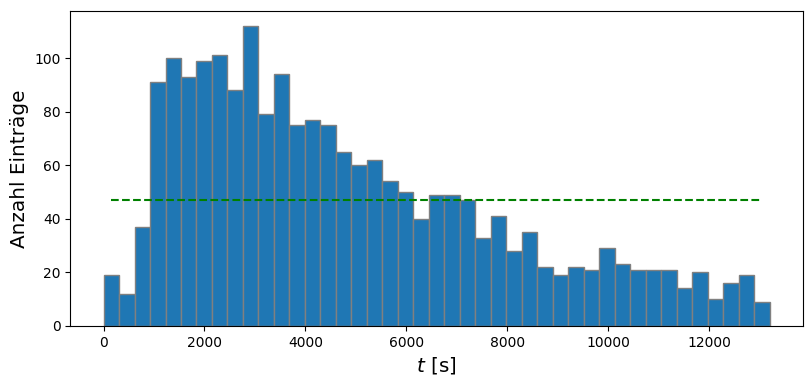
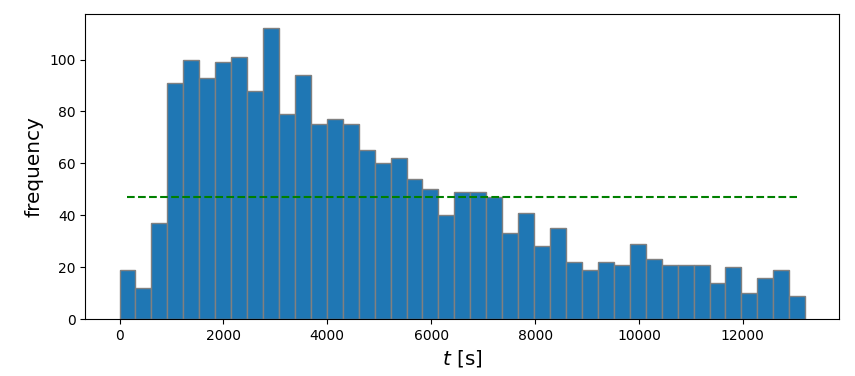
improved section on Radon

diff --git a/experiments/data/GammaAnalysis.py b/experiments/data/GammaAnalysis.py
@@ -125,7 +125,7 @@ ax_ph.set_yscale("log")
 # 2. rates (= frequency / time interval)
 tmn = 0.0
 tmx = NTbins * Tinterval
-bcR, beR, _ = ax_rate.hist(T, bins=np.linspace(tmn, tmx, NTbins))
+bcR, beR, _ = ax_rate.hist(T, bins=np.linspace(tmn, tmx, NTbins), ec='grey')
 ax_rate.set_ylabel("frequency", size="x-large")
 ax_rate.set_xlabel("$t$ [s]", size="x-large")
 # Mittelpunkt und Breite der Bins
@@ -159,7 +159,7 @@ mx = 5 * meanTw
 nb = 75  # minimum, maximum and number of bins
 bcW, beW, _ = ax_tw.hist(dT, bins=np.linspace(mn, mx, nb), log=True, rwidth=0.8)  # log. Darstellung
 ax_tw.set_ylabel("frequency", size="x-large")
-ax_tw.set_xlabel("$\Delta$t [s]", size="x-large")
+ax_tw.set_xlabel(r"$\Delta$t [s]", size="x-large")
 # Mittelpunkt und Breite der Bins
 bc = (beW[:-1] + beW[1:]) / 2.0
 bw = beW[1] - beW[0]

diff --git a/experiments/DIY-ParticleDetector.md b/experiments/DIY-ParticleDetector.md
@@ -1,10 +1,11 @@
-## *PhyPiDAQ*: Recording data from a do-it-yourself particle detector
+# *PhyPiDAQ*:
+## Recording and analyzing data from a do-it-yourself particle detector
 
-The detection of radioactivity, either produced by artificial sources or as part of the natural environment
-like K-40 or Radon from the inner of the Earth, is a fascinating field of study which today has become
-accessible with cheap and simple detectors. There are commercial offers, but also a number of proposals
-for do-it-yourself projects. A sound-card of a standard PC is suitable to record the signals, which can then
-be visualized with any kind of sound-card oscilloscope. 
+>  The detection of radioactivity, either produced by artificial sources or as part of the natural environment
+   like K-40 or Radon from the inner of the Earth, is a fascinating field of study which today has become
+   accessible with cheap and simple detectors. There are commercial offers, but also a number of proposals
+   for do-it-yourself projects. A sound-card of a standard PC is suitable to record the signals, which can then
+   be visualized with any kind of sound-card oscilloscope. 
 
 ### The CERN DIY particle detector 
 
@@ -26,39 +27,42 @@ gamma radiation is registered.
 
 ### Signal recording and analysis with *PhyPiDAQ*
 
-*PhyPiDAQ* contains several modules supporting data recording, visualization and analysis. An interesting
-and important aspect to study in this context is the randomness of the occurrence of signals. As the probability
-to detect a signal is invariant with time, the number of events observed in a time interval is given by
-Poisson statistics. Typical for such a process is the fact that the time between randomly occurring events 
-follows an exponential distribution.
+*PhyPiDAQ* contains several modules supporting data recording, visualization and analysis.
+An interesting and important aspect to study in this context is the randomness of the occurrence
+of signals. As the probability to detect a signal is invariant with time, the number of events
+observed in a time interval is given by Poisson statistics. Typical for such a process is the
+fact that the time between randomly occurring events follows an exponential distribution.
 
-In addition, the exponentially falling decay rate of a sample of radioactive nuclei is another important aspect 
-that can be studied if a sample of short-lived nuclei can be provided. In Nature, such a source is Radon produced 
-from radioactive decays in the inner of the earth; decay products of Radon, which are themselves radioactive, 
-can be  accumulated on an the surface of an electrically charged balloon. 
+In addition, the exponentially falling decay rate of a sample of radioactive nuclei is another
+important aspect that can be studied if a sample of short-lived nuclei can be provided. In Nature,
+such a source is Radon produced  from radioactive decays in the inner of the earth; decay products
+of Radon, which are themselves radioactive, can be accumulated on an the surface of an electrotatically
+charged balloon. 
 
 Relevant modules of the *PhyPiDAQ* package are:
 
-   - `phypidaq\soundcardOsci` with two classes to record and select  and to display waveforms from a PC soundcard
+   - `phypidaq\soundcardOsci` with two classes to record and select and to display waveforms
+     from a PC soundcard
 
-   - `phypidaq/DisplayPoissonEvent`, a class to display a pulse corresponding to a single Poisson event and to show 
-   a rate history. 
+   - `phypidaq/DisplayPoissonEvent`, a class to display a pulse corresponding to a single Poisson
+   event and to show a rate history. 
 
 Ready-to use scripts  illustrate how to use these classes: 
 
    - `examples/oscilloscope/soundcardOsci.py` to record and display wave forms from a sound card.  
 
-  - `examples/scGammaDetector.py` to visualize every occurrence of a large signal and also the  associated
-    wave form data around the trigger point. A rate history is also shown. The script also offers the 
-   possibility to store the event times in a file for off-line analysis, or to only visualize a sub-set of triggering
-   pulses if the rate is very high. 
-   
- Studies of Poisson processes are possible by using the Python scripts
+   - `examples/scGammaDetector.py` to visualize occurrences of a large signal and also the
+      associated waveform data around the trigger point. A rate history is also shown.
+      The code offers the possibility to store the event times and waveform features in a
+      file for off-line analysis.
+      
+ Studies of Poisson processes are possible by using the *Python* scripts
  
-  -  `examples/poissonFlash.py` to generate, visualize and store data of a simulated Poisson process, and  
+  -  `examples/poissonFlash.py` to generate, visualize and store data of a simulated Poisson process,
+      and  
 
-  - `examples/poissonLED.py` to produce random flashes of a LED. A photodiode exposed to the light of
-     the LED will produce signals analogous to  a detector for gamma rays.
+  - `examples/poissonLED.py` to produce random flashes of a LED. A photodiode exposed to the
+    light of the LED will produce signals analogous to a detector for gamma rays.
 
 
 ### Notes on the installation
@@ -89,9 +93,10 @@ Windows 10 or 11, if *Python* is installed there.
 
 #### Simplified installation
 
-The Python programs *scGammaDector.py* and *run_scOsci.py* can also be executed without downloading the complete *PhyPiDAQ* package. If a current Python version
-is available, the libraries can also be downloaded can also be installed directly
-from the *github* repository:
+The Python programs *scGammaDector.py* and *run_scOsci.py* can also be executed without
+downloading the complete *PhyPiDAQ* package. If a current Python version is available,
+the libraries can also be downloaded can also be installed directly from the *github*
+repository:
 
 ```sh
 python -m pip install git+https://github.com/PhyPiDAQ/PhyPiDAQ
@@ -106,17 +111,18 @@ into a working directory and executed.
 #### Examples  
 
  A typical waveform recorded after issuing the command *scGammaDetector.py -o* on the command line 
- is shown in the figure below. The signal is clearly visible above the noise level of approx. 3500 ADC counts. 
- It  is sufficiently large to be directly connected to a earphone so that the signal clicks can also be acoustically 
- perceived. 
+ is shown in the figure below. The signal is clearly visible above the noise level of approx. 3500 ADC
+ counts. It  is sufficiently large to be directly connected to a earphone so that the signal clicks
+ can also be acoustically perceived. 
  
- Note that some soundcards invert the signal. The original output pulse is negative with a clearly visible positive overshoot. 
+ Note that some soundcards invert the signal. The original output pulse is negative with a clearly
+ visible positive overshoot. 
 
   ![Typical waveform recorded with a LogiLink USB soundcard with 16 bit resolution and a sampling rate
  of 96000/s is shown below. Note that the y-axis only shows a range of +/- 2¹⁴](images/scOscillogram.png)
 
-The script provides a number of command line options to control the visual output, enable storage of results to a file,
-and to set up the parameters of the soundcard and the trigger options. 
+The script provides a number of command line options to control the visual output, enable storage of
+results to a file, and to set up the parameters of the soundcard and the trigger options. 
 
 The output of the command `./scGammaDetector -h` is shown here: 
 
@@ -157,40 +163,72 @@ Because the signal rate is very low in normal environments without a radioactive
 the trigger level should be set to be just above noise level so that some noise pulses 
 become visible. It is also advisable to use the option `-o` to switch on the oscilloscope
 view. 
-Note that the signal level depends on the  settings of the soundcard. Use the appropriate 
+Note that the signal level depends on the settings of the soundcard. Use the appropriate 
 tool of your PC operating system to select the standard input device used for sound recording
 and adjust the volume control. 
 To register the signal shown above, the trigger options `--trgfalling -l -5000` were used.
 
-To become acquainted with the software, in particular the selection of data by setting appropriate trigger conditions, it is 
-useful to use a microphone signal as input source.  Initially, only the oscilloscope with a very low trigger  level is started:  
+To become acquainted with the software, in particular the selection of data by setting
+appropriate trigger conditions, it is  useful to use a microphone signal as input source.
+Initially, only the oscilloscope with a very low trigger  level is started:  
    > `python3 scGammaDetector.py -n -o -l 100`
 
-This will show raw data from the soundcard in the oscilloscope display.  Now make some noise, e .g. by clapping your hands or snipping your fingers, and you will see some short signals well above the average noise level. Remember the typical signal level
- of the background noise.  
-Stop the program by typing 'E' on the command line or click the 'End' button in the graphical control interface. Then, restart at
-a higher trigger level, this time also enabling the event display:  
+This will show raw data from the soundcard in the oscilloscope display. Now make some noise,
+e .g. by clapping your hands or snipping your fingers, and you will see some short signals
+well above the average noise level. Remember the typical signal level of the background noise.  
+Stop the program by typing 'E' on the command line or click the 'End' button in the graphical
+control interface. Then, restart at a higher trigger level, this time also enabling the
+event display:  
    > `python3 scGammaDetector.py -o -l 1500`
 
-You should see no signals at all - unless you create a loud sound signal, which then is displayed in the oscilloscope and also in the event display window.
+You should see no signals at all - unless you create a loud sound signal, which then is
+displayed in the oscilloscope and also in the event display window.
 
-Detecting the very small signals from the CERN DIY particle detector works exactly the same way. Connecting the detector output to a microphone input of a soundcard and repeat the the same procedure just described to find the right trigger level to
-separate the noise level from true signals of detected particles.  Note that the
-signal level depends on the settings of your soundcard, most importantly the volume.
+Detecting the very small signals from the CERN DIY particle detector works exactly
+the same way. Connecting the detector output to a microphone input of a soundcard and
+repeat the the same procedure just described to find the right trigger level to
+separate noise from true signals of detected particles.  Note that the signal level depends
+on the settings of your soundcard, most importantly the volume.
 If possible, increase the sampling rate to the highest possible value supported by
-your soundcard - typical values are 44100, 48000, 96000 or 192000 samples/s. 
+your soundcard - possible values are 44100, 48000, 96000 or 192000 samples/s. 
 Also consider adjusting the sample size of a single recording using the option
-`-z<n>`  - 256 or 512 are optimal settings for the short pulses of the particle detector,  but some sound drivers only support a minimum setting of 1024. If the sample size is too large, more than one signal may be contained in the sample, but only the first one would  be triggered and counted.   
-It is obvious that the trigger level has a strong influence on the recorded signal rate. If it is too low, most true signal will be detected, but some noise pulses (called "background") will also be present. It the trigger level is too high, noise pulses will mostly be suppressed, but also some signal pulses will be lost. There is no way out here - the detection efficiency and the background suppression cannot both be 100 %.! If an absolute rate is to be determined, corrections for signal efficiency and background
-contamination of a selected signal sample  must be applied.  
+`-z<n>`  - 256 or 512 are optimal settings for the short pulses of the particle detector,
+but some sound drivers only support a minimum setting of 1024. If the sample size is too
+large, more than one signal may be contained in the sample, but only the first one would
+be triggered and counted.   
+It is obvious that the trigger level has a strong influence on the recorded signal rate.
+If it is too low, most true signal will be detected, but some noise pulses (called "background")
+will also be present. It the trigger level is too high, noise pulses will mostly be suppressed,
+but also some signal pulses will be lost. There is no way out here - the detection efficiency
+and the background suppression cannot both be 100 %.! If an absolute rate is to be determined,
+corrections for signal efficiency and background contamination of a selected signal sample
+must be applied.  
 
-The output from the particle detector seen under measurement conditions at low rates is shown in the figure below. A flashing circle indicates the occurrence of triggered event, and the corresponding (normalized) wave form with 100 sampling points around
-the trigger time is displayed. A rate history is also shown; the bin width in seconds can be set using the option `--interval <n>` 
+The output from the particle detector seen under measurement conditions at low rates is
+shown in the figure below. A flashing circle indicates the occurrence of triggered event,
+and the corresponding (normalized) wave form with 100 sampling points around the trigger
+time is displayed. A rate history is also shown; the bin width in seconds can be set using
+the option `--interval <n>`. 
 
 ![Graphical display showing a typical signal waveform and the observed rates per minute.
  An average count rate is about 1.5 signals per minute.](images/EnvironmentRate.png)
 
-The determination of the background level and the signal efficiency is not always easy to do  with small uncertainties. the background level can be determined rather precisely by performing measurements without the signal source. The determination of the signal efficiency requires precise knowledge of the detector and the signal characteristics, typically gained by detailed modeling  of the physics processes in the detector and the response of the front-end electronics. In case such studies signal efficiency vs. purity are interesting, data recorded with `scGammaDetector.py` can be analyzed  to gain more insight. Recording of detected pulses is switched on with the option `-f <filename>`; for each detected signal, the "event number", the time of occurrence in seconds since program start and the pulse height in ADC counts are stored in the file. In an off-line analysis, a pulse-height spectrum, i. e. the frequency at which pulse heights in a given interval occur, can be derived from data taken at a low trigger threshold. This will show a large number of very small pulses, but also a clear  accumulation arising from true signals at higher values. From data taken without a particle source a spectrum of expected background signals during the measurement can be determined and subtracted from the data taken with a signal source.  
+The determination of the background level and the signal efficiency is not always easy to
+do  with small uncertainties. the background level can be determined rather precisely by
+performing measurements without the signal source. The determination of the signal efficiency
+requires precise knowledge of the detector and the signal characteristics, typically gained
+by detailed modeling  of the physics processes in the detector and the response of the
+front-end electronics. In case such studies signal efficiency vs. purity are interesting,
+data recorded with `scGammaDetector.py` can be analyzed  to gain more insight. Recording of
+detected pulses is switched on with the option `-f <filename>`; for each detected signal,
+the "event number", the time of occurrence in seconds since program start and the pulse
+height in ADC counts are stored in the file. In an off-line analysis, a pulse-height
+spectrum, i. e. the frequency at which pulse heights in a given interval occur, can be
+derived from data taken at a low trigger threshold. This will show a large number of very
+small pulses, but also a clear  accumulation arising from true signals at higher values.
+From data taken without a particle source a spectrum of expected background signals
+during the measurement can be determined and subtracted from the data taken with a
+signal source.  
 
 
 ### Results of measurements
@@ -198,8 +236,10 @@ The determination of the background level and the signal efficiency is not alway
 #### Environmental radioactivity 
 
 The sensor surface area of the DIY particle detector is very small at just 28 mm², 
-and and the sensitive layer is very thin. Of the typically several Hz gamma rate at normal ambient radioactivity of typically 0.1 µS/h, and therefore only a small fraction is registered. By comparison with a dosimeter, in this case a Radiacode 102, see [Instructions](GammaSpectra.md),
-an approximate calibration can be made: 
+and and the sensitive layer is very thin. Of the typically several Hz gamma rate at
+normal ambient radioactivity of typically 0.1 µS/h, and therefore only a small fraction
+is registered. By comparison with a dosimeter, in this case a Radiacode 102,
+see [Instructions](GammaSpectra.md), an approximate calibration can be made: 
 
   > A dose rate of 0.1 µS/h corresponds to 1.3 registered events per minute. 
 
@@ -302,7 +342,7 @@ Since several daughter nuclei are involved, the reduction of the original activi
 does not strictly follow an exponential law. A clear increase in activity above the background level can be seen after about 10 minutes, when the balloon was placed on the detector. 
 Within about 2 hours, the rate drops back to the level of the ambient radiation.  
 
-  ![Number of events in 5 min intervals of radon decay products on a balloon 
+  ![Number of events in 5 min intervals of radon decay products on a
   balloon as a function of time](images/RadonDecay.png){width=80%}  
 
 
